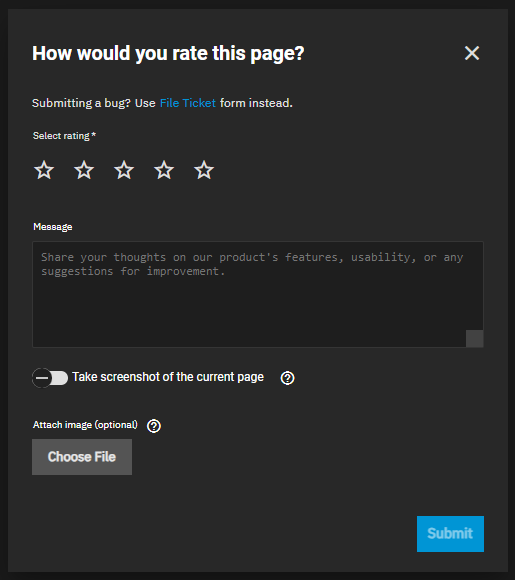
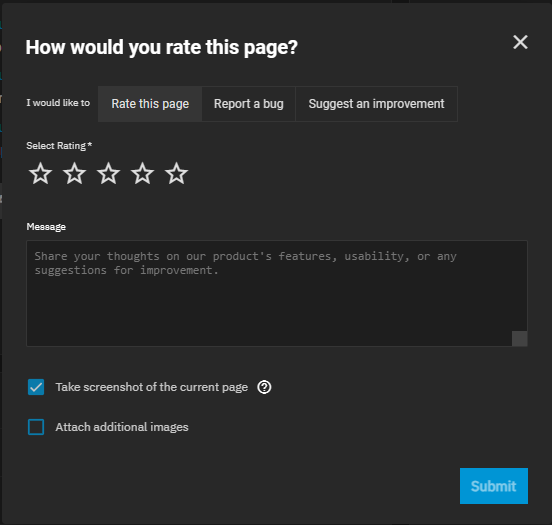
PD-986: begin reworking feedback window docs
Rewrite the snippet
Update the PrereleaseUserFeedback article (larger rework might still happen)
Update impacted screenshots
Write a release note for the feature improvement.

diff --git a/content/_includes/FeedbackWindow.md b/content/_includes/FeedbackWindow.md
@@ -1,17 +1,32 @@
 &NewLine;
 
 The **How would you rate this page?** ![FeedbackIcon](/images/SCALE/Dashboard/FeedbackIcon.png "Feedback Icon") icon opens a feedback window.
+Alternately, go to **System Settings** > **General**, find the **Support** widget, and click **File Ticket** to see the feedback window.
+
+The feedback window allows users to send page ratings, comments, and even report issues or suggest improvements about TrueNAS directly to the development team.
+Submitting a bug report or improvement suggestion requires a free [Atlassian account](https://id.atlassian.com/signup).
 
 {{< trueimage src="/images/SCALE/Dashboard/FeedbackWindow.png" alt="The Feedback Window" id="The Feedback Window" >}}
 
-Use this window to submit a star rating and comments or suggestions for the current page.
+Click between the different tabs at the top of the window to see different options for your specific feedback.
 
-{{< hint type=note >}}
-The feedback window allows users to submit their general user-experience feedback.
-Submit bug tickets through the **File Ticket** link that opens the **File Ticket** form, also accessed from the **System Settings > General** screen **File Ticket** button. See [Filing an Issue Ticket in SCALE]({{< relref "fileissuescale.md" >}}) for further instructions.
-{{< /hint >}}
+### Rate this page
 
-The **Take screenshot of the current page** toggle is on by default. When on, TrueNAS SCALE automatically creates and attaches a screenshot.
-Turn off the toggle to submit feedback without an image.
-When off, the window displays **Attach image (optional)** as an alternative.
-Click **Choose File** to attach an existing screenshot.
+Use the **Rate this page** tab to quickly review and provide comments on the currently active TrueNAS user interface screen.
+You can include a screenshot of the current page and/or upload additional images with your comments.
+
+### Report a bug or Suggest an improvement
+
+Use **Report a bug** or **Suggest an improvement** tabs to notify the development team when a TrueNAS screen or feature is either not working as intended or can be evolved with new functionality or made easier to use.
+For example, report a bug when a middleware error and traceback appears while saving a configuration change or enter an improvement suggestion when a form can be configured in fewer clicks.
+Both bug reports and improvement suggestions are created in the publicly-visible [TrueNAS Jira project](https://ixsystems.atlassian.net/jira/software/c/projects/NAS/) and have the same reporting fields.
+
+Enter a descriptive summary in the **Subject**.
+TrueNAS can show a list of existing Jira tickets with similar summaries.
+Duplicate tickets are often closed in favor of consolidating feedback in to one report.
+When there is an existing ticket about the issue, consider clicking on that ticket and leaving a comment instead of creating a new one.
+
+Enter details about the issue in the **Message**.
+Keep the details concise and focused on how to reproduce the issue, what the expected result of the action is, and what the actual result of the action was.
+This helps ensure a speedy ticket resolution.
+For faster resolutions, attach system debug and screenshot files to the report.

diff --git a/content/Contributing/IssueReporting/PrereleaseUserFeedback.md b/content/Contributing/IssueReporting/PrereleaseUserFeedback.md
@@ -10,11 +10,9 @@ tags:
 
 TrueNAS SCALE welcomes community feedback!
 
-To encourage general user experience reporting, prerelease versions of TrueNAS SCALE include the **How would you rate this page?** ![FeedbackIcon](/images/SCALE/Dashboard/FeedbackIcon.png "Feedback Icon") icon.
-Some screens undergoing revision also include a **NEW** badge and **Leave Feedback** link in the header.
+To encourage general user experience reporting, nightly or prerelease TrueNAS SCALE versions include the **How would you rate this page?** ![FeedbackIcon](/images/SCALE/Dashboard/FeedbackIcon.png "Feedback Icon") icon.
+Some screens undergoing revision also include a **NEW** badge in the header.
 
-{{< trueimage src="/images/SCALE/Dashboard/NewLeaveFeedback.png" alt="NEW Badge and Leave Feedback Link" id="NEW Badge and Leave Feedback Link" >}}
-
-Click either the ![FeedbackIcon](/images/SCALE/Dashboard/FeedbackIcon.png "Feedback Icon") icon or **Leave Feedback** link to open a feedback window that allows you to rate the web UI screen and leave comments.
+{{< trueimage src="/images/SCALE/Dashboard/NewLeaveFeedback.png" alt="NEW Badge" id="NEW Badge" >}}
 
 {{< include file="/_includes/FeedbackWindow.md" >}}

diff --git a/content/SCALE/GettingStarted/SCALEReleaseNotes.md b/content/SCALE/GettingStarted/SCALEReleaseNotes.md
@@ -57,6 +57,9 @@ More details are available from [Software Releases]({{< relref "/TrueNASUpgrades
 
 Notable changes:
 
+* The Feedback reporting window has improved!
+  The page rating icon is now always visible on the top toolbar and the feedback window also functions for new bug reports and improvement suggestions ([NAS-124484](https://ixsystems.atlassian.net/browse/NAS-124484)).
+  Clicking **File a ticket** on **System Settings** > **General** also opens the feedback window.
 * systemd-nspawn containers ([Sandboxes]({{< relref "/SCALE/SCALETutorials/Apps/Sandboxes.md" >}})) are added as an unsupported community feature so that an advanced containerization user can deploy custom software in persistent containers.
 * Support is added for data ingest via filesystem (SMB/NFS) clients, allowing users migrating to TrueNAS SCALE to more easily import data from a third party NAS solution ([NAS-123717](https://ixsystems.atlassian.net/browse/NAS-123717)).
 
